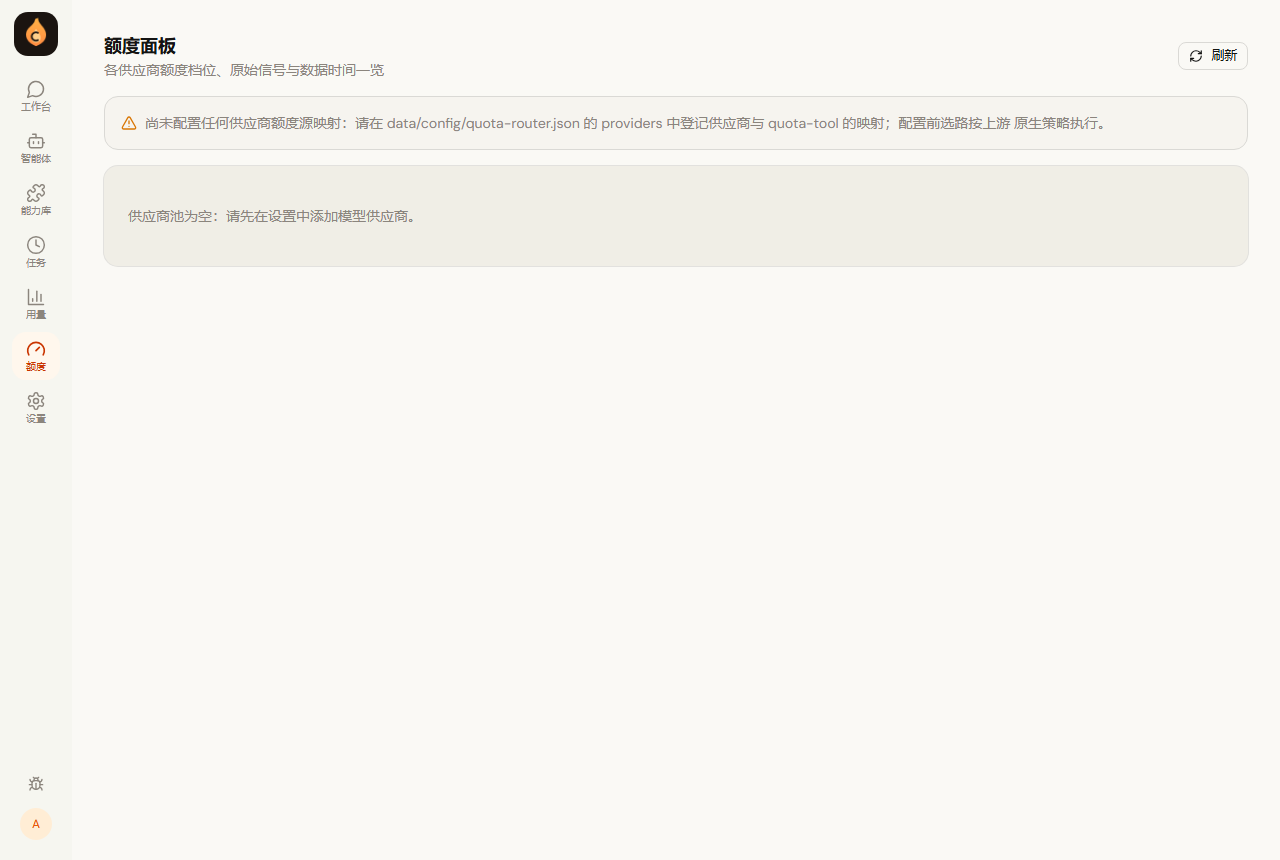
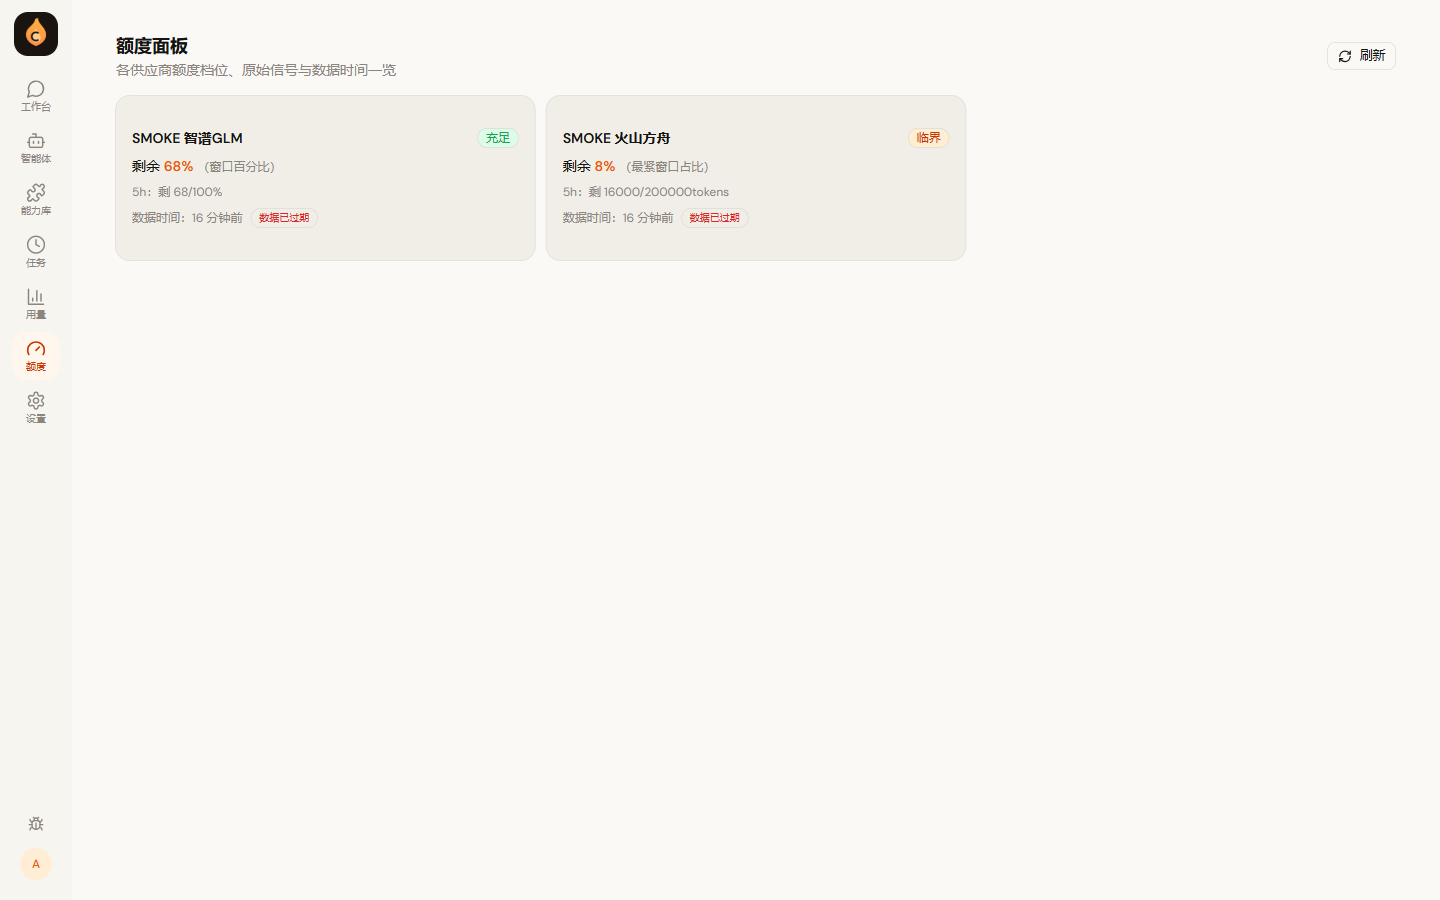
fix(quota-panel): 10 号真机截图补数据态重截（judge 复验 pass）+ critical 档色板改语义 token（#8）

diff --git a/web/src/pages/QuotaPage.tsx b/web/src/pages/QuotaPage.tsx
@@ -21,14 +21,19 @@ import { Button } from '@/components/ui/button';
 import { Card, CardContent } from '@/components/ui/card';
 import { Skeleton } from '@/components/ui/skeleton';
 
-/** 四档徽标样式（充足绿/紧张黄/临界橙/耗尽红） */
+/**
+ * 四档徽标样式（充足绿/紧张黄/临界橙/耗尽红）。
+ * 色板全走 globals.css 语义 token（随主题/暗色联动）：临界为紧张的实底
+ * 强调形态——warning 实底白字（dark 下亮黄底配 error-bg 深字保证对比度），
+ * 与耗尽（error 系）拉开色相档位递进。
+ */
 const TIER_BADGE_CLASS: Record<QuotaTier, string> = {
   plenty:
     'bg-success-bg text-success dark:bg-success/20 dark:text-success border-transparent',
   tight:
     'bg-warning-bg text-warning dark:bg-warning/20 dark:text-warning border-transparent',
   critical:
-    'bg-orange-100 text-orange-700 dark:bg-orange-900/40 dark:text-orange-300 border-transparent',
+    'bg-warning text-white dark:bg-warning dark:text-error-bg border-transparent',
   exhausted:
     'bg-error-bg text-error dark:bg-error/20 dark:text-error border-transparent',
 };
